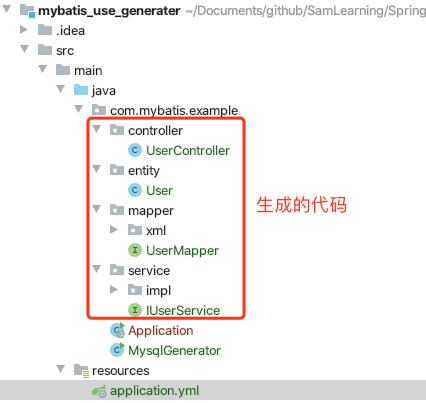
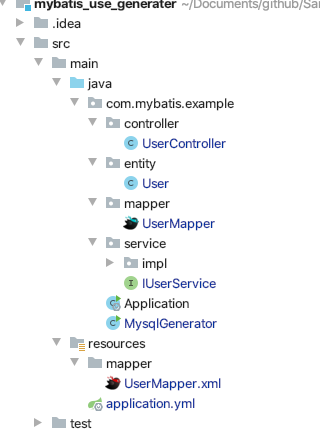
add

Changed region(s): [[0.0, 0.0, 1.0, 1.0]]

diff --git a/classOne/chapter1/onLine.md b/classOne/chapter1/onLine.md
@@ -1,0 +1,129 @@
+
+# CentOS7安装JDK
+
+检查是否安装JDK：
+
+```sh
+$ java -version
+# openjdk version "1.8.0_212"
+# OpenJDK Runtime Environment (build 1.8.0_212-b04)
+# OpenJDK 64-Bit Server VM (build 25.212-b04, mixed mode)
+```
+
+如果需要卸载JDK：
+
+```sh
+# 1. 检查系统安装的OpenJDK
+$ rpm -qa|grep openjdk -i
+
+# java-1.8.0-openjdk-devel-debug-1.8.0.212.b04-0.el7_6.x86_64
+# java-1.8.0-openjdk-javadoc-1.8.0.212.b04-0.el7_6.noarch
+# java-1.8.0-openjdk-debug-1.8.0.212.b04-0.el7_6.x86_64
+# java-1.8.0-openjdk-demo-1.8.0.212.b04-0.el7_6.x86_64
+# java-1.8.0-openjdk-src-debug-1.8.0.212.b04-0.el7_6.x86_64
+# java-1.8.0-openjdk-javadoc-debug-1.8.0.212.b04-0.el7_6.noarch
+# java-1.8.0-openjdk-headless-1.8.0.212.b04-0.el7_6.x86_64
+# java-1.8.0-openjdk-accessibility-debug-1.8.0.212.b04-0.el7_6.x86_64
+# java-1.8.0-openjdk-src-1.8.0.212.b04-0.el7_6.x86_64
+# java-1.8.0-openjdk-javadoc-zip-debug-1.8.0.212.b04-0.el7_6.noarch
+# java-1.8.0-openjdk-headless-debug-1.8.0.212.b04-0.el7_6.x86_64
+# java-1.8.0-openjdk-devel-1.8.0.212.b04-0.el7_6.x86_64
+# java-1.8.0-openjdk-demo-debug-1.8.0.212.b04-0.el7_6.x86_64
+# java-1.8.0-openjdk-javadoc-zip-1.8.0.212.b04-0.el7_6.noarch
+# java-1.8.0-openjdk-1.8.0.212.b04-0.el7_6.x86_64
+# java-1.8.0-openjdk-accessibility-1.8.0.212.b04-0.el7_6.x86_64
+
+# 删除软件包
+$ rpm -e --nodeps 需要删除的软件 # eg: rpm -e --nodeps java-1.8.0-openjdk-devel-debug-1.8.0.212.b04-0.el7_6.x86_64
+```
+
+重新安装JDK：
+
+1、创建JDK安装目录：
+
+```sh
+$ mkdir /usr/java
+```
+
+<img src="/assets/images/classOne/cp1/01.png">
+
+2、使用软件把JDK包上传到某目录：
+
+<img src="/assets/images/classOne/cp1/02.png">
+
+3、解压JDK包：
+
+```sh
+$ tar -xvf jdk-8u202-linux-x64.tar
+
+# drwxr-xr-x 7   10  143      4096 Dec 16  2018 jdk1.8.0_202
+# -rw-r--r-- 1 root root 404162560 Sep 25 18:25 jdk-8u202-linux-x64.tar
+```
+
+4、把解压后的JDK文件夹移动到`/usr/java`中：
+
+```sh
+$  mv jdk1.8.0_202/ /usr/java/
+
+# [root@VM_0_6_centos /]# cd usr/java/
+# [root@VM_0_6_centos java]# ll
+# total 4
+# drwxr-xr-x 7 10 143 4096 Dec 16  2018 jdk1.8.0_202
+```
+
+5、配置环境变量：
+
+```sh
+$ vim /etc/profile
+```
+
+配置环境变量：
+
+```sh
+export JAVA_HOME=/usr/java/jdk1.8.0_202
+export CLASSPATH=.:%JAVA_HOME%/lib/dt.jar:%JAVA_HOME%/lib/tools.jar  
+export PATH=$PATH:$JAVA_HOME/bin
+```
+
+<img src="/assets/images/classOne/cp1/03.png">
+
+6、刷新profile，让配置生效：
+
+```sh
+$ source /etc/profile
+```
+
+7、检查安装情况：
+
+```sh
+$ java -version
+
+# java version "1.8.0_202"
+# Java(TM) SE Runtime Environment (build 1.8.0_202-b08)
+# Java HotSpot(TM) 64-Bit Server VM (build 25.202-b08, mixed mode)
+```
+
+JDK安装成功。
+
+# 部署第一台Tomcat
+
+# 部署第二台Tomcat
+
+# 域名配置方案
+
+# 安全组端口开放
+
+
+
+
+
+
+
+
+
+
+
+
+
+
+

diff --git a/useage/mybatis-Plus.md b/useage/mybatis-Plus.md
@@ -1,10 +1,7 @@
 
-* [MyBatis Plus](https://baomidou.com/)
-* [代码生成器配置](https://baomidou.com/config/generator-config.html)
-
 # 基础使用
 
-项目整体结构：
+项目整体结构：要把生成出来的`*.xml`文件移到`resources/mapper`中，因为这是`mybatis-plus`默认的露肩，也可以自定义路径。
 
 <img src="/assets/images/useage/01.png"/>
 
@@ -269,3 +266,9 @@ public class Application {
     }
 }
 ```
+
+# 资料
+
+* [MybatisX 快速开发插件](https://baomidou.com/guide/mybatisx-idea-plugin.html)
+* [MyBatis Plus](https://baomidou.com/)
+* [代码生成器配置](https://baomidou.com/config/generator-config.html)

diff --git a/SUMMARY.md b/SUMMARY.md
@@ -13,6 +13,7 @@
 			* [构建聚合项目](/classOne/chapter1/lesson1/createProj.md)
 		* [SpringBoot补充](/classOne/chapter1/lesson2/README.md)
 		* [登录注册开发](/classOne/chapter1/lesson3/README.md)
+		* [部署上线](/classOne/chapter1/onLine.md)
 	* [阶段2：单体到集群](/classOne/chapter2/README.md)
 	* [阶段3：分布式架构](/classOne/chapter3/README.md)
 	* [阶段4：SpringCloud](/classOne/chapter4/README.md)
